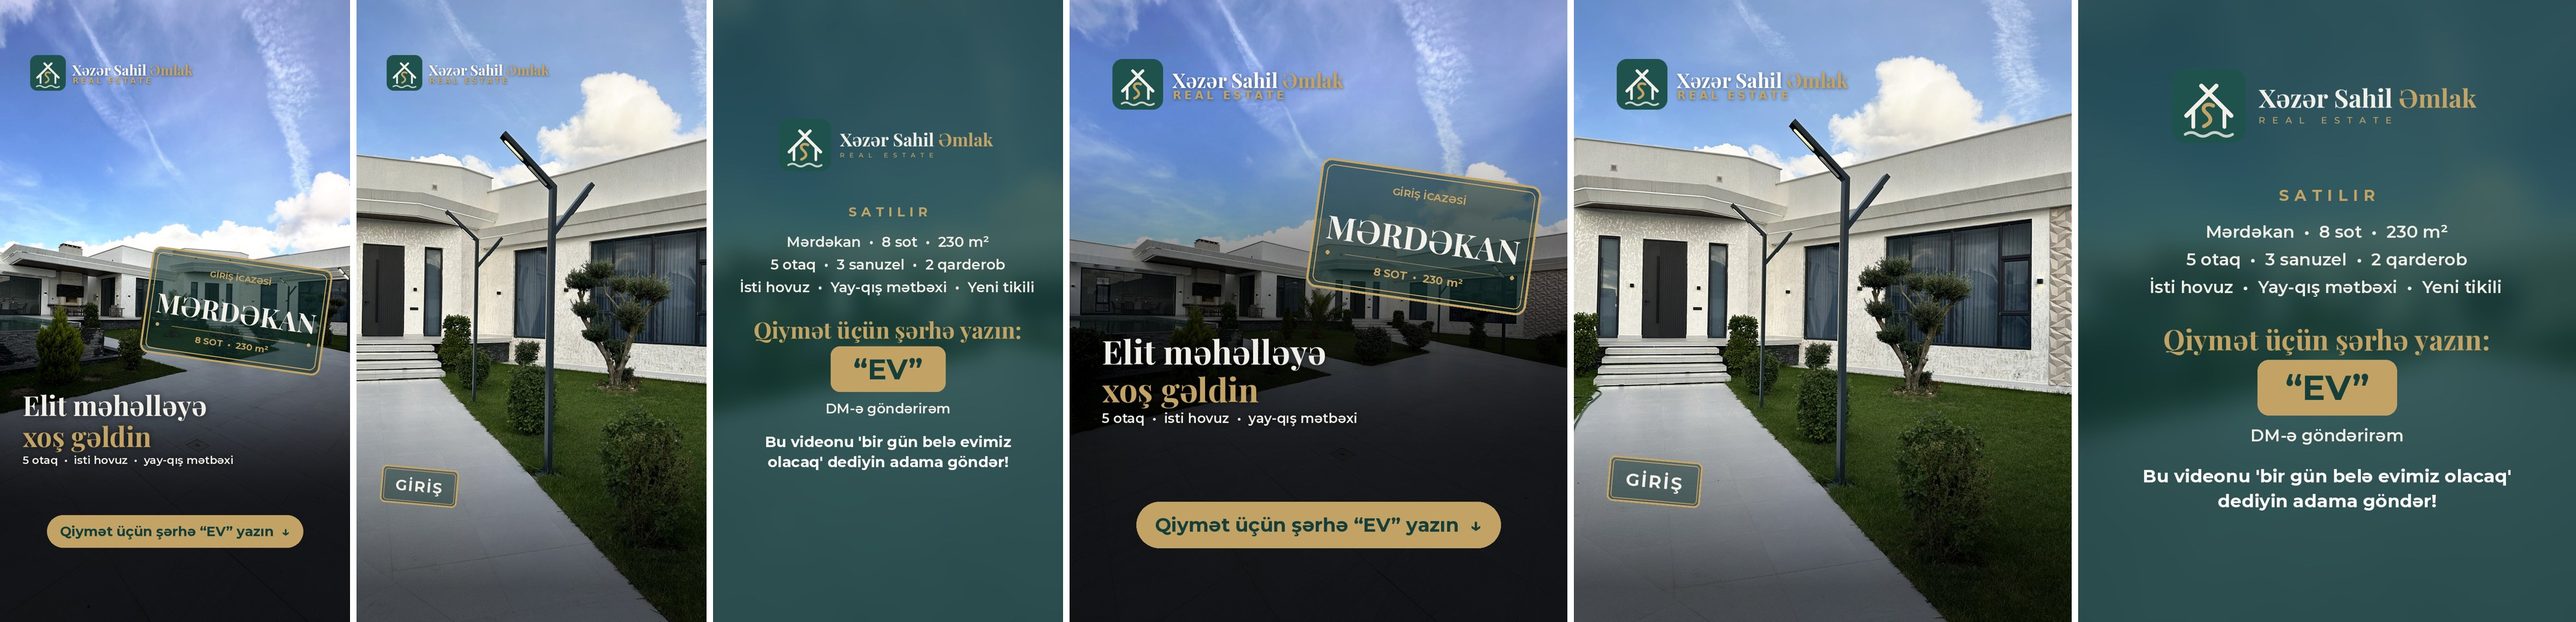
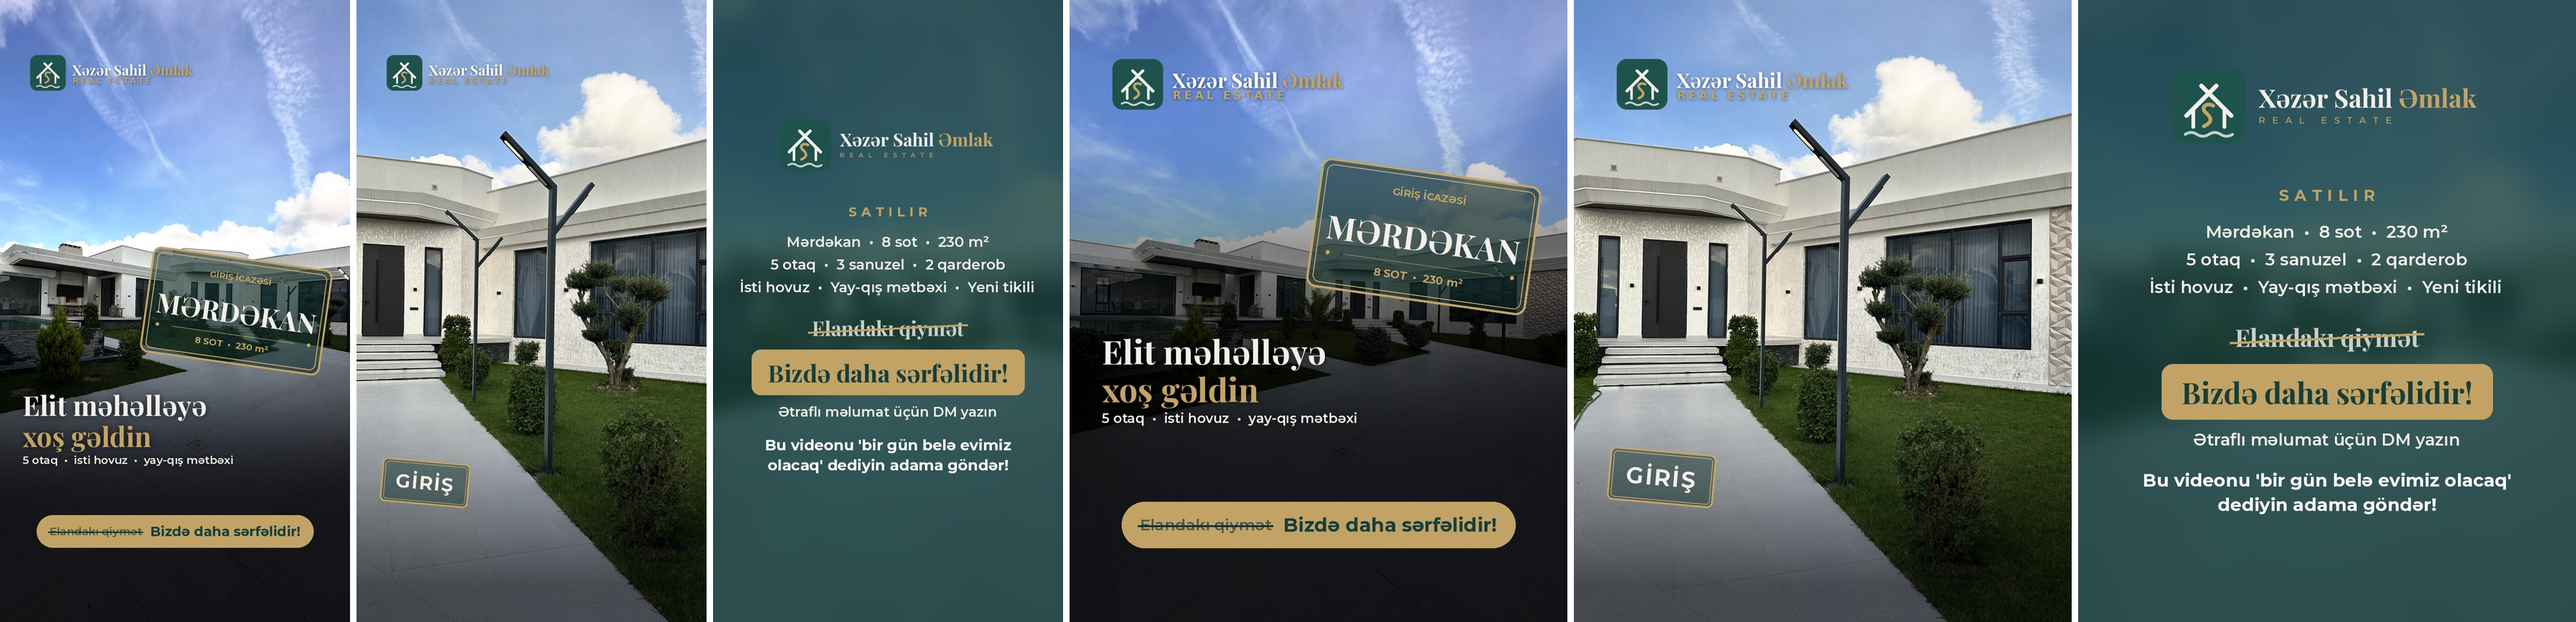
Qanun: EV şərh çağırışı ləğv, yerinə qiymət kampaniyası (Bizdə daha sərfəlidir!)
Claude-Session: https://claude.ai/code/session_01EhGUYEnuQ1XXHHYqr1RQrg

diff --git a/video/render.py b/video/render.py
@@ -44,6 +44,14 @@ EV_Q = "Qiymət üçün şərhə yazın:"
 EV_WORD = "“EV”"
 EV_DM = "DM-ə göndərirəm"
 EV_PILL = "Qiymət üçün şərhə “EV” yazın  ↓"
+# user rule 2026-11-17: "EV" comment CTA cancelled -> price campaign line (variant A) everywhere
+CAMP_OLD = "Elandakı qiymət"
+CAMP_NEW = "Bizdə daha sərfəlidir!"
+CAMP_DM = "Ətraflı məlumat üçün DM yazın"
+
+
+def campaign():
+    return (LISTING or {}).get("campaign", True)
 VERIFIED_TXT = "Xəzər Sahil — Yoxlanılmış Ev"  # badge for houses that passed the 3 checks ("verified": true)
 SAVE_TXT = "SAXLA, İTİRMƏ"  # test: mid-video save prompt (listing "save_cta": shot index)
 
@@ -325,6 +333,21 @@ class Renderer:
                 fp = font("Montserrat700.ttf", 42 * k)
                 if "comment_q" in (LISTING.get("text") or {}):
                     t = (T("comment_q", COMMENT_Q) + " " if LISTING["hook"]["cta_style"] == "pill" else "") + T("comment_a", COMMENT_A) + " ↓"
+                elif campaign():
+                    fo = font("Montserrat600.ttf", 34 * k)
+                    t_old, t_new = T("camp_old", CAMP_OLD), T("camp_new", CAMP_NEW)
+                    wo, wn = d.textlength(t_old, font=fo), d.textlength(t_new, font=fp)
+                    gap = 26 * k
+                    tw = wo + gap + wn
+                    ph = int(100 * k)
+                    yb = H - int(230 * self.u) - ph
+                    x0 = W / 2 - tw / 2
+                    d.rounded_rectangle([x0 - 40 * k, yb, x0 + tw + 40 * k, yb + ph], radius=ph // 2, fill=GOLD + (255,))
+                    d.text((x0, yb + ph / 2), t_old, font=fo, fill=(70, 90, 84), anchor="lm")
+                    d.line([(x0 - 4 * k, yb + ph / 2 + 2 * k), (x0 + wo + 4 * k, yb + ph / 2 + 2 * k)], fill=GREEN_DARK, width=max(2, int(4 * k)))
+                    d.text((x0 + wo + gap, yb + ph / 2), t_new, font=fp, fill=GREEN, anchor="lm")
+                    self.cta, self.cta_top = lay, yb
+                    return
                 else:
                     t = T("ev_pill", EV_PILL)
                 tw = d.textlength(t, font=fp)
@@ -3232,6 +3255,30 @@ class Renderer:
             items.append((self.text_layer([centered(line, fd, CREAM, y, 0)], False), 0.3 + 0.1 * i))
             y += 70 * fs
         y += 40 * fs
+        if "comment_q" not in (LISTING.get("text") or {}) and campaign():  # user rule 2026-11-17: price campaign
+            fq = font("Playfair700.ttf", 62 * fs)
+            t_old = T("camp_old", CAMP_OLD)
+            lay = self.text_layer([centered(t_old, fq, (205, 205, 198), y)], False)
+            dl = ImageDraw.Draw(lay)
+            wo = d.textlength(t_old, font=fq)
+            ym = y + 46 * fs
+            dl.line([(cx - wo / 2 - 12 * fs, ym + 12 * fs), (cx + wo / 2 + 12 * fs, ym - 12 * fs)], fill=GOLD + (255,), width=max(4, int(7 * fs)))
+            items.append((lay, 0.7))
+            y += 110 * fs
+            fw = font("Playfair700.ttf", 74 * fs)
+            t_new = T("camp_new", CAMP_NEW)
+            tw = d.textlength(t_new, font=fw)
+            ph = int(140 * fs)
+            lay = Image.new("RGBA", (W, H), (0, 0, 0, 0))
+            dd = ImageDraw.Draw(lay)
+            dd.rounded_rectangle([cx - tw / 2 - 50 * fs, y, cx + tw / 2 + 50 * fs, y + ph], radius=int(28 * fs), fill=GOLD + (255,))
+            dd.text((cx, y + ph / 2), t_new, font=fw, fill=GREEN, anchor="mm")
+            items.append((lay, 0.85))
+            y += ph + 26 * fs
+            items.append((self.text_layer([centered(T("camp_dm", CAMP_DM), font("Montserrat600.ttf", 42 * fs), CREAM, y)], False), 0.95))
+            y += 100 * fs
+            self._endcard_share(items, centered, y, d)
+            return
         if "comment_q" not in (LISTING.get("text") or {}):  # user rule: "EV" keyword CTA
             fq = font("Playfair700.ttf", 70 * fs)
             items.append((self.text_layer([centered(T("ev_q", EV_Q), fq, GOLD, y)], False), 0.7))

diff --git a/montaj/CLAUDE.md b/montaj/CLAUDE.md
@@ -35,6 +35,12 @@ ziddiyyət olanda **ən son verilən qanun** keçərlidir (burada artıq nəzər
 
 ## B. Videonun məzmunu
 
+10a. **"EV" şərh çağırışı LƏĞV EDİLDİ (QANUN, 2026-11-17) — yerinə qiymət kampaniyası (variant A):**
+    giriş kadrındakı qızılı düymədə: üstündən xətt çəkilmiş "Elandakı qiymət" + **"Bizdə daha sərfəlidir!"**;
+    son kadrda: üstündən qızılı xətt çəkilmiş "Elandakı qiymət" + qızılı düymədə **"Bizdə daha sərfəlidir!"** +
+    "Ətraflı məlumat üçün DM yazın" (render.py `CAMP_*`, `campaign()` — default açıqdır; `"campaign": false` ilə söndürülür).
+    Paylaşım mətnində "EV" yazın sətri yerinə: "🔥 Elandakı qiymətdən daha sərfəli — bizdə! Ətraflı məlumat üçün DM yazın."
+    Nömrə yenə yalnız paylaşım mətnində. Aşağıdakı 10-cu qanunun "EV" hissəsi artıq keçərli deyil.
 10. **Nömrə yox, "EV" şərh çağırışı (QANUN, 2026-11-04).** Videoda telefon nömrəsi YOXDUR.
     Giriş kadrında qızılı düymə: **"Qiymət üçün şərhə “EV” yazın ↓"**; son kadrda:
     **"Qiymət üçün şərhə yazın:"** + qızılı **“EV”** düyməsi + **"DM-ə göndərirəm"** (render.py `EV_*`).
